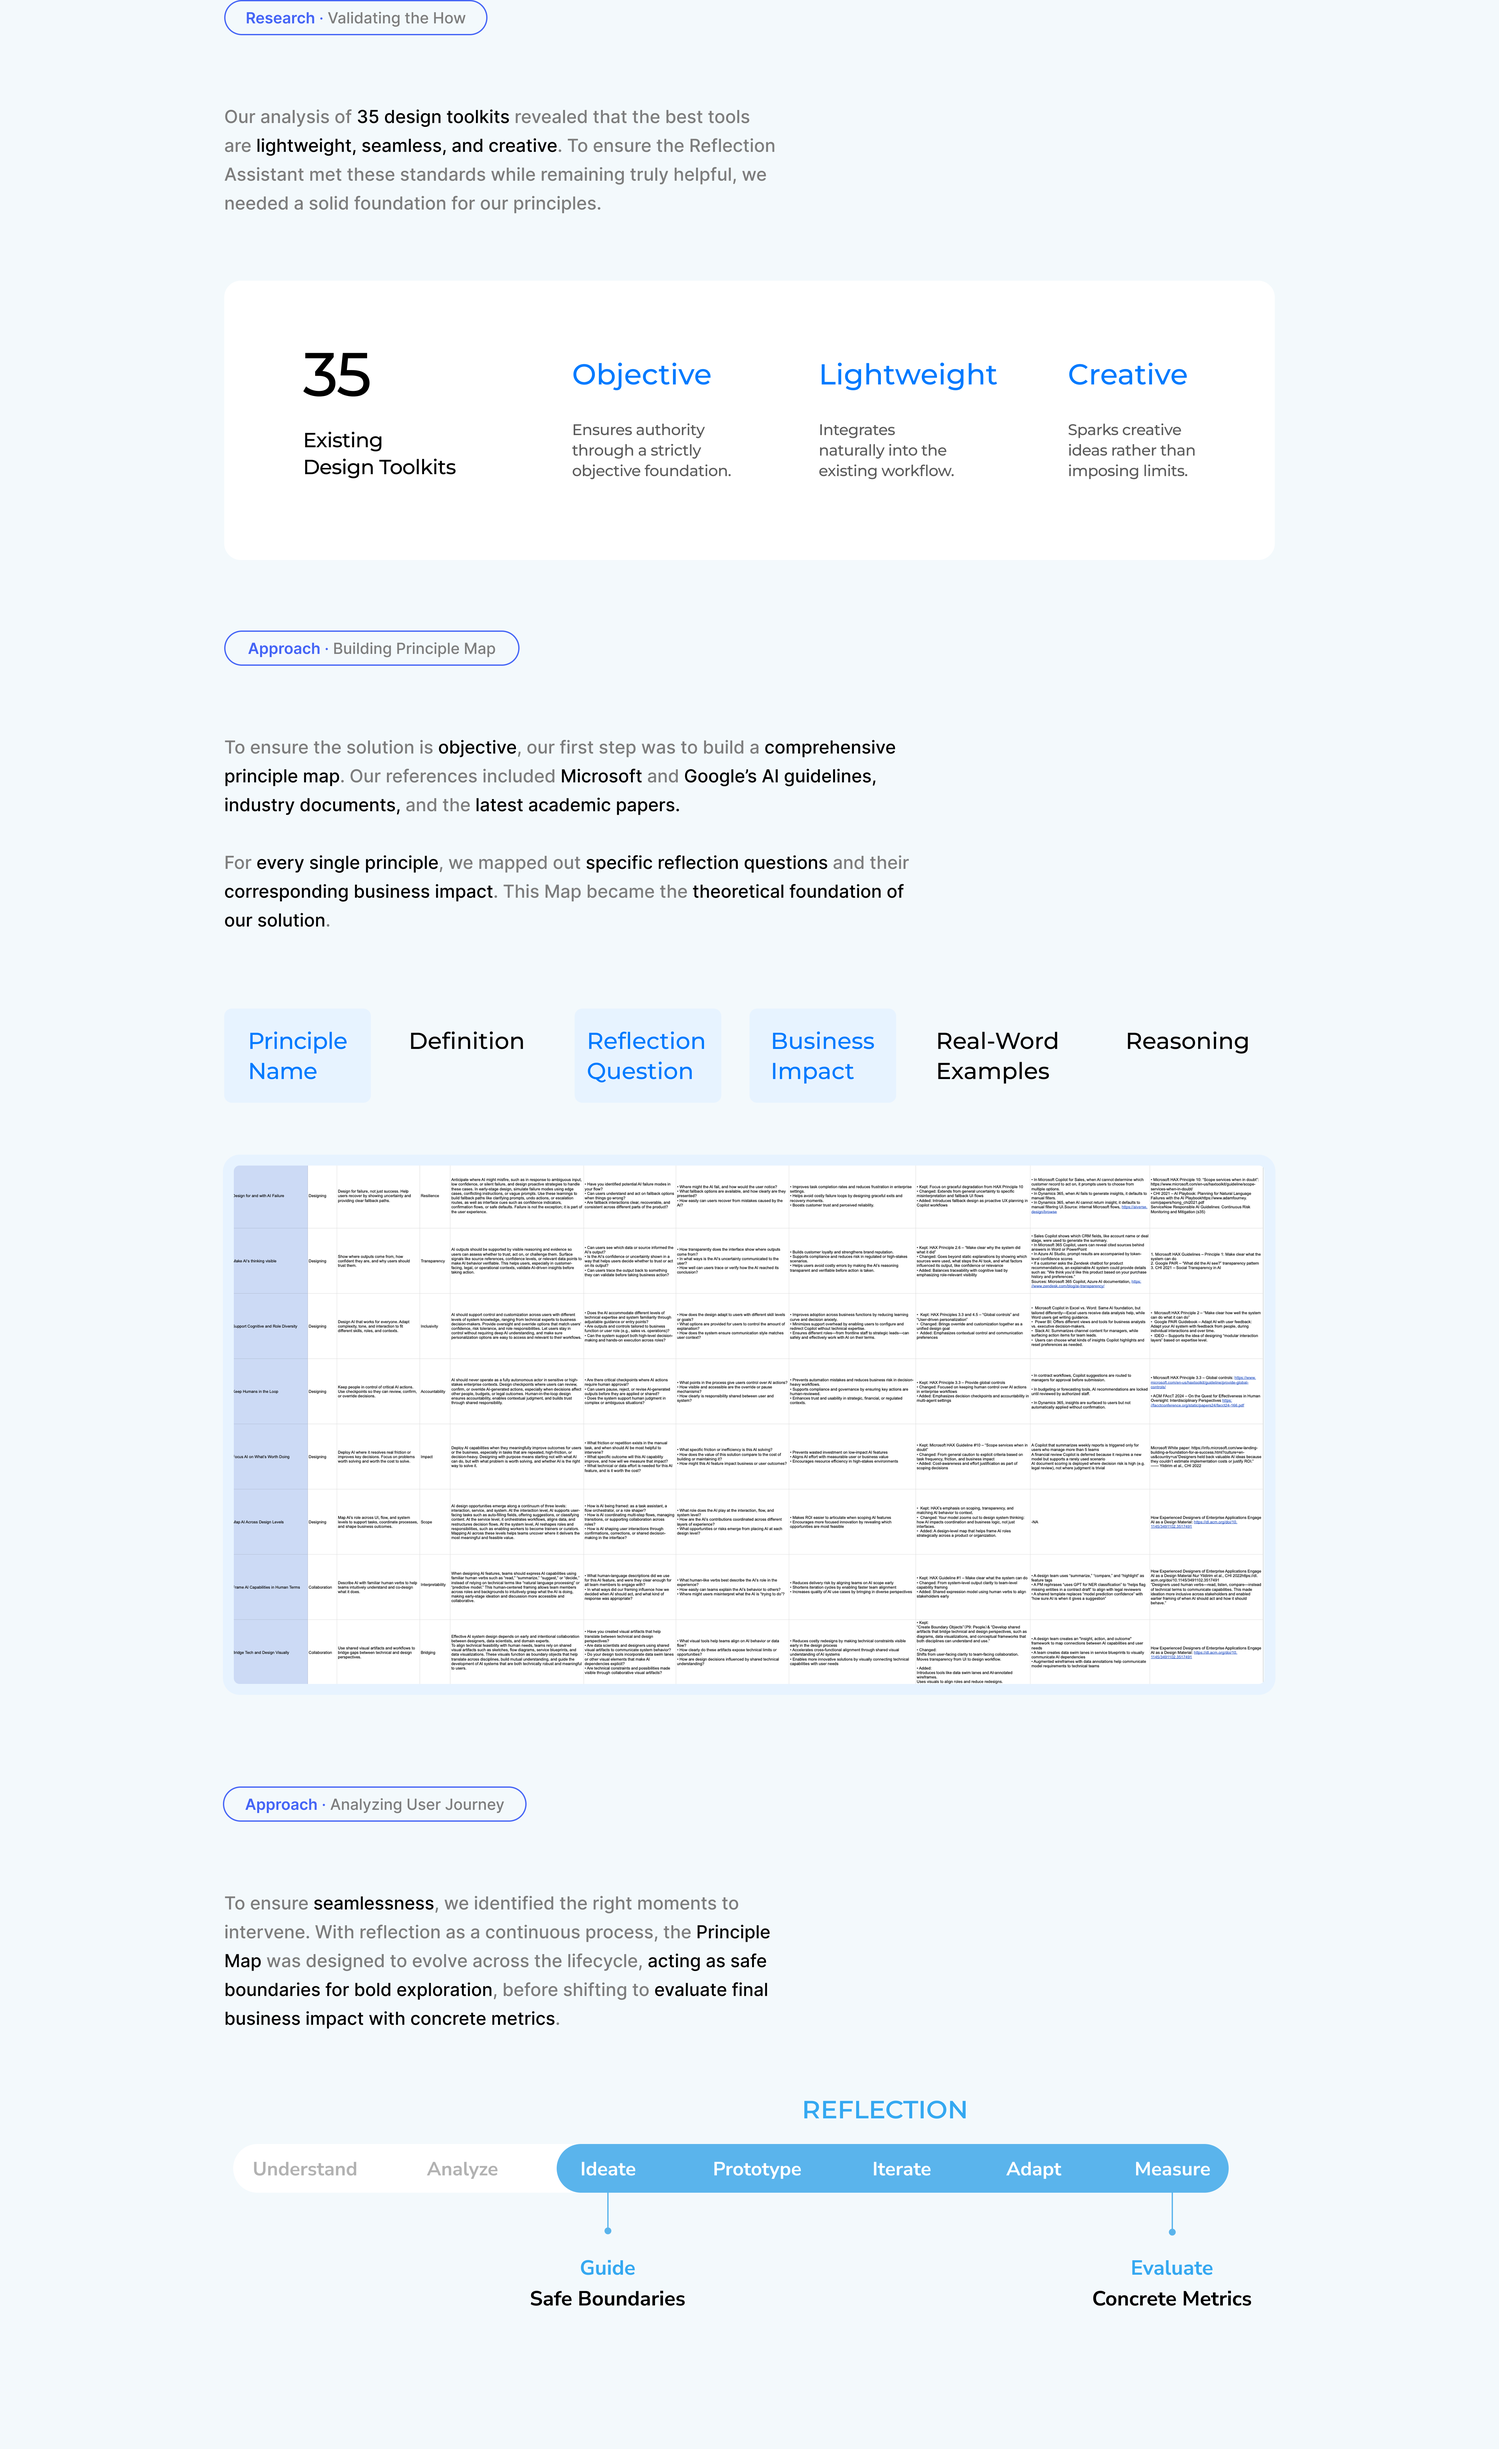
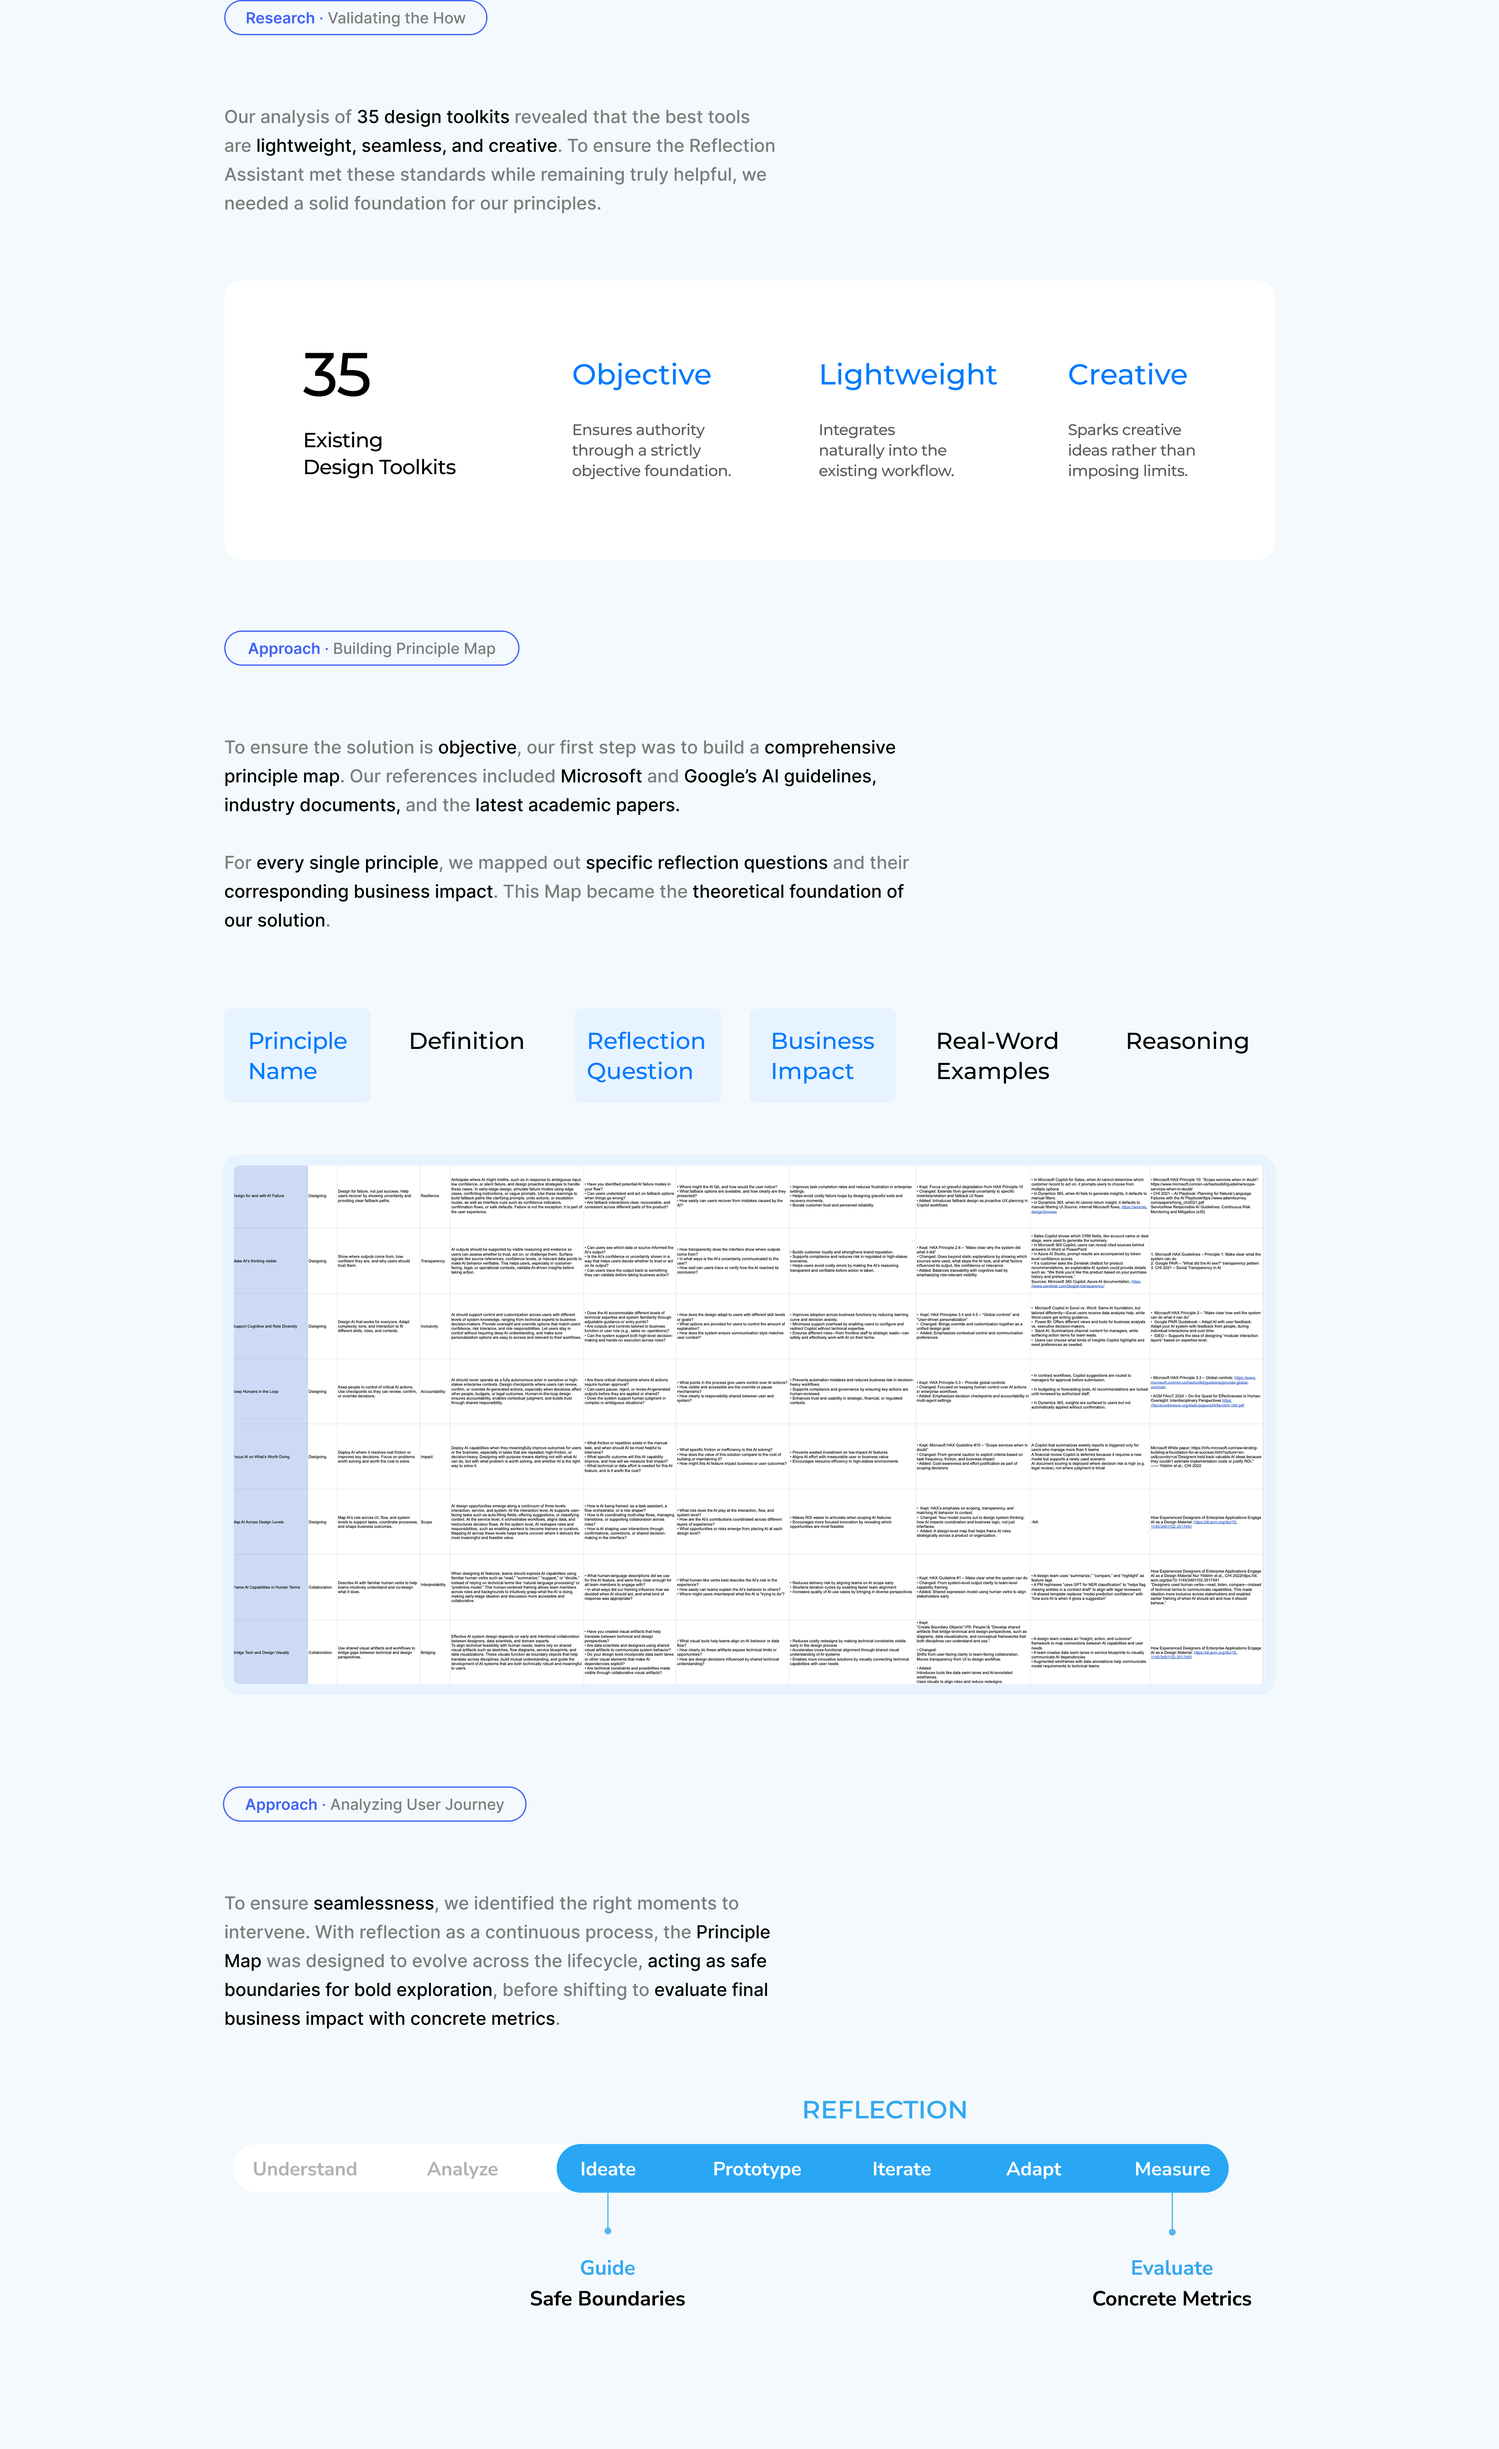
header

Changed region(s): [[0.3744, 0.8718, 0.8423, 0.9029]]

diff --git a/css/workheader2.css b/css/workheader2.css
@@ -1,153 +1,16 @@
-/* --- 全宽 Header --- */
-
-.header-full {
-    position: fixed;
-    top: 0;
-    left: 0;
-    width: 100%;
-    z-index: 998;
-    /* z-index 比 pill header 低一级，以防万一 */
-    padding: 15px 0;
-    background-color: rgba(255, 255, 255, 0);
-    backdrop-filter: blur(8px);
-    -webkit-backdrop-filter: blur(8px);
-}
-
-/* 内部内容容器 */
-.header-full-inner {
-    width: 100%;
-    margin: 0 auto;
-    padding: 0 30px;
-    /* 两边留白 */
-    display: flex;
-    justify-content: space-between;
-    align-items: center;
-}
-
-/* 左侧 Logo */
-.header-full .logo {
-    display: flex;
-    align-items: center;
-    gap: 10px;
-    text-decoration: none;
-    color: #ffffff;
-}
-
-.header-full .logo-icon {
-    height: 21px;
-}
-
-.header-full .logo-name {
-    font-size: 16px;
-    font-weight: 500;
-}
-
-/* 右侧导航 */
-.header-full .nav {
-    display: flex;
-    align-items: center;
-    gap: 40px;
-}
-
-.header-full .nav-link {
-    text-decoration: none;
-    color: #ffffff;
-    font-size: 14px;
-    font-weight: 400;
-    position: relative;
-    transition: color 0.3s ease;
-}
-
-
-/* 社交媒体图标链接样式 */
-.header-full .social-icon-link {
-    display: flex;
-    align-items: center;
-    justify-content: center;
-}
-
-/* 修正：将 'svg' 改为 'img' */
-.header-full .social-icon-link img {
-    width: 18px;
-    /* 现在可以调整宽度了 */
-    height: 18px;
-    /* 现在可以调整高度了 */
-    transition: transform 0.3s ease;
-    /* 保留过渡效果 */
-}
-
-
-.nav-link.nav-button {
-    background-color: #000;
-    color: #fff;
-    padding: 6px 18px;
-    /* 调整内边距形成胶囊形状 */
-    border-radius: 999px;
-    /* 圆角形成胶囊 */
-    border: 1px solid #000;
-    transition: background-color 0.3s ease, color 0.3s ease;
-}
-
-/* 响应式设计 */
-@media (max-width: 768px) {
-  .header-full-inner {
-    padding: 0 20px;
-  }
-
-  .header-full .logo-name {
-    display: none;
-  }
-
-  .header-full .nav {
-    gap: 25px;
-  }
-  
-  /* ✅ 新增：在小屏幕上重置 'About' 按钮的样式 */
-  .header-full .nav-link.nav-button {
-    background-color: transparent; /* 移除背景色 */
-    color: #ffffff; /* 恢复为普通链接颜色 */
-    border-color: transparent; /* 移除边框 */
-    padding: 0; /* 恢复为普通链接的 padding */
-    font-weight: 400; /* 恢复为普通链接的字重 */
-  }
-
-
-  /* 社交媒体图标链接样式 */
-  .header-full .social-icon-link {
-      display: none;
-  }
-}
-
-
-
-/* 淡入动画 */
-.fade-in {
-    animation: fadeIn 1s ease-in-out;
-}
-
-@keyframes fadeIn {
-    from {
-        opacity: 0;
-    }
-
-    to {
-        opacity: 1;
-    }
-}
-
 /* =========================================
-   2. Header (3列 Grid) - 零位移按钮版
+   项目详情页统一 Header 样式
+   基于 index.html 的布局，支持黑白背景切换
    ========================================= */
+
 .site-header {
-    /* --- 1. 严格保留你的原版基础设置 --- */
     position: fixed;
     top: 0;
     left: 50%;
     transform: translateX(-50%);
     width: 100%;
-    max-width: 1800px;
-    
-    padding: 24px 32px; 
+    /* 移除 max-width 限制，让边距随页面拉伸 */
+    padding: 24px var(--page-gutter, 24px); 
     z-index: 1000;
     
     display: grid;
@@ -160,67 +23,43 @@
     
     background: transparent;
     color: #ffffff;
-    mix-blend-mode: difference;
+    mix-blend-mode: difference; /* 关键：自动适应底色 */
 }
 
-/* --- 2. 链接基础样式 --- */
+/* 链接基础样式 */
 .site-header a {
     pointer-events: auto;
     text-decoration: none;
     color: currentColor;
-    
-    /* ✅ 关键设置：设置为相对定位，作为背景框的参考点 */
-    position: relative;
-    z-index: 1; /* 保证文字在背景之上 */
-    
-    /* 保持 display 为 inline 或 inline-block，不加 padding，保证零位移 */
     display: inline-block;
-    
     transition: opacity 0.3s ease;
 }
 
-/* --- 3. 使用伪元素制作“假”背景 (不占位置) --- */
-
-/* --- 4. Hover 交互 --- */
-
-/* Hover 时文字保持清晰 (或者你想保持原来的 0.5 也行，但通常按钮背景出来后文字要亮一点) */
+/* 悬停效果：仅改变透明度，不产生圆圈或背景 */
 .site-header a:hover {
     opacity: 0.5; 
 }
 
-/* Hover 时显示背景框 */
-.site-header a:hover::before {
-    opacity: 1;
-    transform: scale(1); /* 恢复正常大小 */
+/* 彻底禁用任何可能存在的伪元素（如圆圈、背景框） */
+.site-header a::before,
+.site-header a::after {
+    content: none !important;
+    display: none !important;
 }
 
-/* --- 5. 严格保留你的列布局 --- */
+/* 列对齐设置 */
 .header-col-1 { justify-self: start; }
-/* 关键点：Header 的第二列是靠左对齐 (start) */
 .header-col-2 { justify-self: start; display: flex; gap: 24px; }
 .header-col-3 { justify-self: end; display: flex; gap: 24px; }
-/* =========================================
-   Index Footer (流式布局)
-   ========================================= */
-.site-footer {
-    position: relative;
-    width: 100%;
-    max-width: 1800px;
-    margin: 0 auto;
-    padding: 60px 32px 40px;
-    
-    display: flex;
-    justify-content: space-between;
-    align-items: flex-end;
-    
-    font-size: 15px;
-    font-weight: 300;
-    background: transparent;
-    /* color: #ffffff; */
-    /* mix-blend-mode: difference; */
-}
 
-.site-footer a {
-    pointer-events: auto;
+/* 响应式适配 */
+@media (max-width: 768px) {
+    .site-header {
+        display: flex;
+        justify-content: space-between;
+        padding: 20px 16px;
+    }
+    .header-col-2 {
+        display: none; /* 移动端隐藏中间列 */
+    }
 }
-

diff --git a/css/index.css b/css/index.css
@@ -3,6 +3,10 @@ html {
     scrollbar-gutter: stable;
 }
 
+:root {
+    --page-gutter: min(1.5%, 24px);
+}
+
 /* =========================================
    1. 基础设置 (Reset & Base)
    ========================================= */
@@ -34,9 +38,7 @@ a {
     left: 50%;
     transform: translateX(-50%);
     width: 100%;
-    max-width: 1800px;
-    
-    padding: 24px 32px;
+    padding: 24px var(--page-gutter);
     z-index: 1000;
     
     display: grid;
@@ -78,9 +80,8 @@ a {
     display: block;
     column-count: 3; 
     column-gap: 8px; 
-    max-width: 1800px;
     width: 100%;
-    padding: 0 32px; 
+    padding: 0 var(--page-gutter);
     margin: 0 auto;
 }
 
@@ -91,9 +92,8 @@ a {
 .site-footer {
     position: relative;
     width: 100%;
-    max-width: 1800px;
     margin: 0 auto;
-    padding: 60px 32px 30px;
+    padding: 60px var(--page-gutter) 30px;
     
     display: grid;
     grid-template-columns: repeat(3, 1fr);
@@ -139,20 +139,19 @@ a {
     margin-bottom: 8px; 
 
     opacity: 0;
-    transform: translateY(60px);
     
-    transition: opacity 0.8s cubic-bezier(0.25, 0.46, 0.45, 0.94), 
+    transition: opacity 0.8s cubic-bezier(0.25, 0.46, 0.45, 0.94),
                 transform 0.4s cubic-bezier(0.25, 1, 0.5, 1);
 }
 
 .work-item.visible {
     opacity: 1;
-    transform: translateY(0);
 }
 
 .work-item:not(.no-click):hover {
-    transform: scale(0.96); 
+    transform: scale(0.98); /* 稍微缩小一点，增加回弹感 */ 
     cursor: pointer;
+    transition: transform 0.4s cubic-bezier(0.34, 1.56, 0.64, 1); /* 弹性曲线 */
 }
 
 .work-item.no-click {
@@ -447,11 +446,12 @@ a {
    ========================================= */
 @media (max-width: 768px) {
     /* --- 布局调整 --- */
-    .site-header { display: flex; justify-content: space-between; }
+    .site-header { display: flex; justify-content: space-between; padding: 20px 16px; }
     .header-col-2 { display: none; } 
     .header-col-3 { display: flex; }
 
-    .grid-container { column-count: 1; }
+    .grid-container { column-count: 1; padding: 0 16px; }
+    .site-footer { padding: 40px 16px 20px; }
     
     /* 手机端点击时去除缩放效果 */
     .work-item:not(.no-click):hover { transform: none; }

diff --git a/microsoft.html b/microsoft.html
@@ -12,7 +12,7 @@
     <link rel="icon" href="media/logo.svg" type="image/svg+xml" />
     <link href="https://fonts.googleapis.com/css2?family=Inter:wght@100..900&display=swap" rel="stylesheet" />
     <link href="https://fonts.googleapis.com/css2?family=Nunito:wght@700&display=swap" rel="stylesheet" />
-    <link rel="stylesheet" href="css/workheader.css" />
+    <link rel="stylesheet" href="css/workheader2.css" />
     <link rel="stylesheet" href="css/style.css" />
 
     <script type="module" src="js/cursor.js"></script>

diff --git a/lepal.html b/lepal.html
@@ -9,7 +9,7 @@
     <link href="https://fonts.googleapis.com/css2?family=Inter:wght@100..900&display=swap" rel="stylesheet" />
     <link href="https://fonts.googleapis.com/css2?family=Nunito:wght@700&display=swap" rel="stylesheet" />
     <link rel="stylesheet" href="css/style.css" />
-    <link rel="stylesheet" href="css/workheader.css" />
+    <link rel="stylesheet" href="css/workheader2.css" />
 
     <script type="module" src="js/cursor.js"></script>
     <script type="module" src="js/lepal.js"></script>

diff --git a/samsung.html b/samsung.html
@@ -13,7 +13,7 @@
     <link rel="icon" href="media/logo.svg" type="image/svg+xml" />
     <link href="https://fonts.googleapis.com/css2?family=Inter:wght@100..900&display=swap" rel="stylesheet" />
     <link href="https://fonts.googleapis.com/css2?family=Nunito:wght@700&display=swap" rel="stylesheet" />
-    <link rel="stylesheet" href="css/workheader.css" />
+    <link rel="stylesheet" href="css/workheader2.css" />
     <link rel="stylesheet" href="css/style.css" />
 
 

diff --git a/index.html b/index.html
@@ -19,12 +19,11 @@
         /* 简单的淡入预设 */
         .work-item {
             opacity: 0;
-            transform: translateY(40px);
-            transition: opacity 0.8s ease, transform 0.8s ease;
+            transition: opacity 0.8s ease,
+                        transform 0.4s cubic-bezier(0.34, 1.56, 0.64, 1);
         }
         .work-item.visible {
             opacity: 1;
-            transform: translateY(0);
         }
     </style>
 </head>
